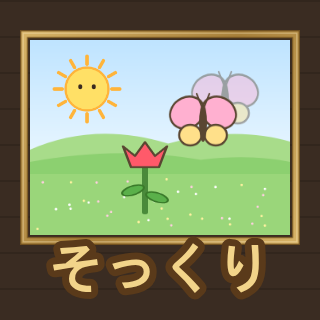
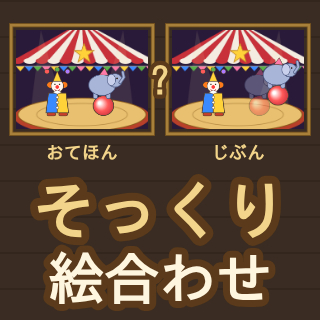
そっくり絵合わせのアイコンを作り直し
Claude-Session: https://claude.ai/code/session_01CgTKhAavcAqfcCmenjbN3T

diff --git a/tools/gen-promo-sokkuri.js b/tools/gen-promo-sokkuri.js
@@ -10,7 +10,8 @@ const I = (n) => dataUrl(path.join(ROOT, "sokkuri/image/" + n + ".png"));
 const srcs = {
 	shot: dataUrl(process.argv[2]), logo: I("logo"), frame: I("frame"), bg: I("bg_spring"),
 	sakura: I("p_sakura"), sun: I("p_sun"), tulip: I("p_tulip_r"), butterfly: I("p_butterfly"),
-	snowman: I("p_snowman"), usagi: I("p_usagi"), himawari: I("p_himawari_l")
+	snowman: I("p_snowman"), usagi: I("p_usagi"), himawari: I("p_himawari_l"),
+	frameS: I("frame_s"), circus: I("bg_circus"), clown: I("p_clown_a"), elephant: I("p_elephant"), starc: I("p_star_c")
 };
 
 async function draw(srcs) {
@@ -62,21 +63,39 @@ async function draw(srcs) {
 	ctx.fillRect(0, 650, 1280, 70);
 	text(ctx, "おてほんを見て、同じ場所に置けるかな？", 640, 686, 46, "#fff6e0", "#5a3a1a");
 	const promo = c.toDataURL("image/png");
-	// ---- アイコン: 額縁の中に、春の絵とずれた花 ----
+	// ---- アイコン: 左の「おてほん」と右の「自分の絵」を見くらべる ----
 	const S = 320;
 	const ic = document.createElement("canvas");
 	ic.width = ic.height = S;
 	const ix = ic.getContext("2d");
 	wood(ix, S, S);
-	ix.drawImage(imgs.bg, 30, 40, 260, 195);
-	ix.drawImage(imgs.frame, 20, 30, 280, 215);
-	ix.drawImage(imgs.sun, 52, 54, 70, 70);
-	ix.globalAlpha = 0.45;
-	ix.drawImage(imgs.butterfly, 190, 70, 70, 56);
-	ix.globalAlpha = 1;
-	ix.drawImage(imgs.butterfly, 168, 92, 70, 56);
-	ix.drawImage(imgs.tulip, 120, 140, 50, 75);
-	text(ix, "そっくり", S / 2, 268, 56, "#f2d48a", "#5a3a1a");
+	const pic = (x, y, w, h, shift) => {
+		const k = w / 640;
+		ix.drawImage(imgs.circus, x, y, w, h);
+		const put = (im, px, py, sc, dx, dy) => {
+			const iw = im.width * k * sc, ih = im.height * k * sc;
+			if (shift && (dx || dy)) {
+				ix.globalAlpha = 0.4;
+				ix.drawImage(im, x + px * k - iw / 2, y + py * k - ih / 2, iw, ih);
+				ix.globalAlpha = 1;
+			}
+			ix.drawImage(im, x + (px + (shift ? dx : 0)) * k - iw / 2, y + (py + (shift ? dy : 0)) * k - ih / 2, iw, ih);
+		};
+		put(imgs.clown, 200, 300, 1.25, 0, 0);
+		put(imgs.elephant, 440, 300, 1.25, 90, -50);
+		put(imgs.starc, 330, 110, 1.25, 0, 0);
+		ix.drawImage(imgs.frameS, x - 7, y - 7, w + 14, h + 14);
+	};
+	pic(16, 30, 132, 99, false);
+	pic(172, 30, 132, 99, true);
+	text(ix, "?", 160, 80, 34, "#f2d48a", "#5a3a1a");
+	ix.font = "bold 18px IPAGothic";
+	ix.textAlign = "center";
+	ix.fillStyle = "#f2d48a";
+	ix.fillText("おてほん", 82, 152);
+	ix.fillText("じぶん", 238, 152);
+	text(ix, "そっくり", S / 2, 210, 64, "#f2d48a", "#5a3a1a");
+	text(ix, "絵合わせ", S / 2, 278, 56, "#fff6e0", "#5a3a1a");
 	return { promo, icon: ic.toDataURL("image/png") };
 }
 
